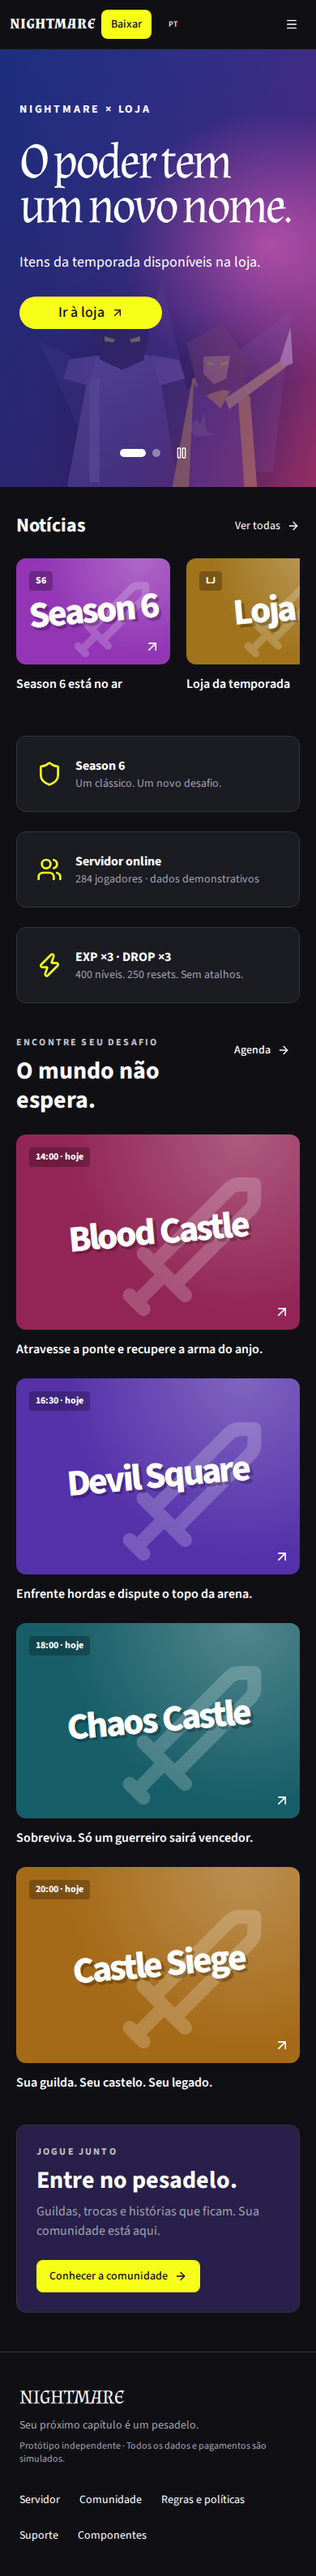
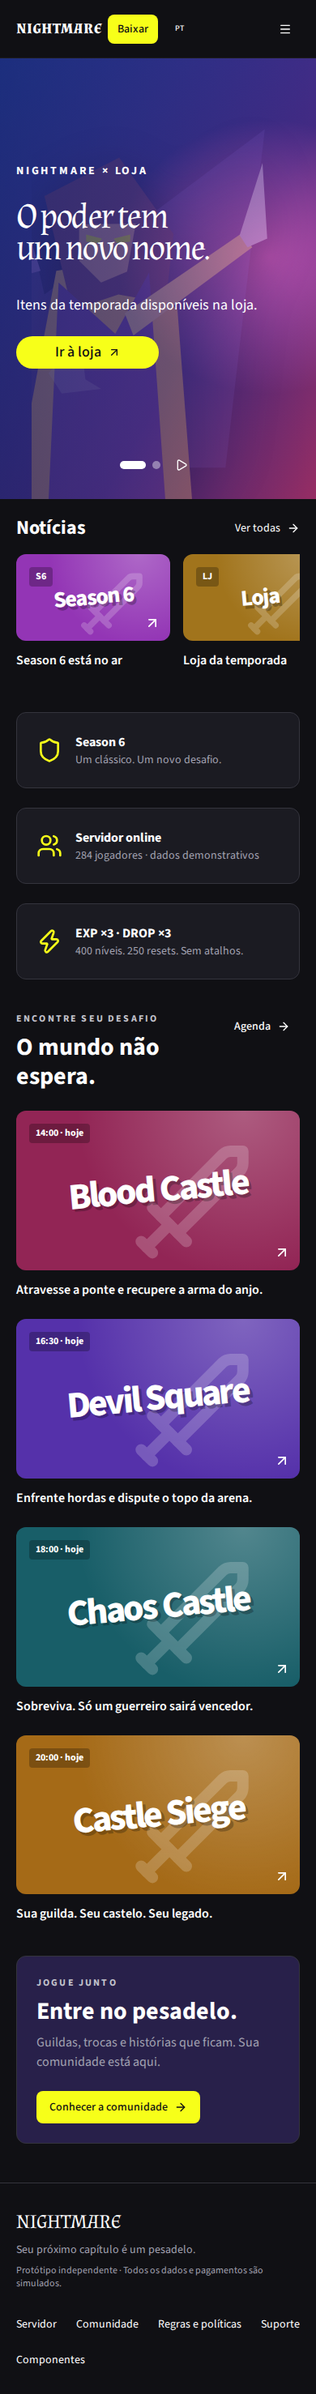
fix: stabilize carousel framing and align shared page gutters

diff --git a/src/index.css b/src/index.css
@@ -29,6 +29,23 @@
   --card: #1b1b22;
   --primary: #f7ff19;
   --space-section: 4rem;
+  --layout-gutter: clamp(20px, 3.2vw, 64px);
+  --header-height: 72px;
+  --news-columns: 6;
+  --news-card-gap: 16px;
+  --news-heading-space: 68px; /* section inset + heading + gap */
+  --news-caption-space: 48px; /* label gap + line + rail padding */
+  --news-card-width: max(
+    190px,
+    calc(
+      (100vw - 2 * var(--layout-gutter) - 5 * var(--news-card-gap)) /
+        var(--news-columns)
+    )
+  );
+  --news-row-space: calc(
+    var(--news-card-width) * 9 / 16 + var(--news-heading-space) +
+      var(--news-caption-space)
+  );
 }
 * {
   box-sizing: border-box;
@@ -57,9 +74,9 @@ a {
   font-family: Almendra, serif;
 }
 .page {
-  max-width: 1440px;
+  width: 100%;
   margin: auto;
-  padding: 48px 48px 64px;
+  padding: 48px var(--layout-gutter) 64px;
 }
 .section {
   margin-top: var(--space-section);
@@ -108,7 +125,12 @@ a {
 }
 .hero {
   position: relative;
-  min-height: 560px;
+  height: clamp(
+    400px,
+    calc(100svh - var(--header-height) - var(--news-row-space)),
+    760px
+  );
+  isolation: isolate;
   overflow: hidden;
   background:
     radial-gradient(ellipse at 85% 45%, #b650ad 0, transparent 40%),
@@ -124,12 +146,19 @@ a {
 .hero-content {
   position: relative;
   z-index: 2;
-  padding: 100px 8%;
-  max-width: 750px;
+  height: 100%;
+  width: 100%;
+  padding: 40px var(--layout-gutter) 72px;
+  display: flex;
+  flex-direction: column;
+  justify-content: center;
+  align-items: flex-start;
 }
 .hero-title {
   font-family: Almendra, serif;
-  font-size: clamp(62px, 8vw, 118px);
+  width: min(50%, 680px);
+  height: 2.05em;
+  font-size: clamp(52px, 5.8vw, 108px);
   line-height: 0.88;
   letter-spacing: -0.06em;
 }
@@ -139,6 +168,7 @@ a {
   bottom: 0;
   width: 55%;
   height: 100%;
+  overflow: hidden;
   opacity: 0.95;
 }
 .hero-art svg {
@@ -148,7 +178,7 @@ a {
 }
 .poster {
   position: relative;
-  aspect-ratio: 1.45;
+  aspect-ratio: 16 / 9;
   border-radius: 12px;
   overflow: hidden;
   background:
@@ -176,9 +206,10 @@ a {
 }
 .news-rail {
   display: grid;
-  grid-template-columns: repeat(6, minmax(190px, 1fr));
-  gap: 20px;
+  grid-template-columns: repeat(var(--news-columns), minmax(190px, 1fr));
+  gap: var(--news-card-gap);
   overflow: auto;
+  scroll-snap-type: x proximity;
   padding-bottom: 12px;
 }
 .product-art {
@@ -197,7 +228,8 @@ a {
   display: flex;
   gap: 24px;
   align-items: center;
-  padding: 16px 24px;
+  height: var(--header-height);
+  padding: 12px var(--layout-gutter);
   background: #101014;
   position: sticky;
   top: 0;
@@ -245,20 +277,20 @@ a {
 }
 @media (max-width: 640px) {
   .page {
-    padding: 32px 20px 48px;
+    padding: 32px var(--layout-gutter) 48px;
   }
   .site-header {
-    padding: 12px 16px;
-    gap: 12px;
+    padding: 12px var(--layout-gutter);
+    gap: 8px;
   }
   .header-search {
     display: none;
   }
   .hero {
-    min-height: 540px;
+    height: clamp(400px, calc(100svh - 300px), 560px);
   }
   .hero-content {
-    padding: 64px 24px;
+    padding: 32px var(--layout-gutter) 64px;
   }
   .hero-art {
     width: 90%;
@@ -280,7 +312,7 @@ a {
 }
 @media (max-width: 400px) {
   .site-header {
-    padding: 12px;
+    padding: 12px var(--layout-gutter);
     gap: 8px;
   }
   .site-header > a > svg {
@@ -291,5 +323,36 @@ a {
   }
   .site-header button[aria-label="Idioma / Language"] svg {
     display: none;
+  }
+}
+
+.home-content {
+  padding-top: 20px;
+}
+.news-rail > a {
+  scroll-snap-align: start;
+  min-width: 0;
+}
+.news-rail .poster h3 {
+  font-size: clamp(28px, 3vw, 42px);
+}
+.site-footer {
+  padding: 40px var(--layout-gutter);
+}
+@media (max-width: 1200px) {
+  .hero-title {
+    width: min(65%, 680px);
+  }
+}
+@media (max-width: 640px) {
+  .hero-title {
+    width: 100%;
+    font-size: clamp(44px, 9vw, 58px);
+  }
+  .home-content {
+    padding-top: 20px;
+  }
+  .site-footer {
+    padding: 32px var(--layout-gutter);
   }
 }

diff --git a/src/features/catalog/TokenCatalog.tsx b/src/features/catalog/TokenCatalog.tsx
@@ -54,7 +54,7 @@ export function TokenCatalog() {
           <Translated text="Interface, conteúdo e números" />
         </p>
         <p className="muted mt-6">
-          <Translated text="Raio: 8 / 12 px. Cards: gap 24 px. Seções: 64 px, 40 px no mobile. Página: 48 px, 20 px no mobile." />
+          <Translated text="Raio: 8 / 12 px. Cards: gap 24 px; notícias: 16 px. Seções: 64 px, 40 px no mobile. Margem lateral compartilhada: 20 a 64 px." />
         </p>
       </div>
     </div>

diff --git a/src/components/layout/Layout.tsx b/src/components/layout/Layout.tsx
@@ -15,8 +15,8 @@ export function Layout() {
       <main>
         <Outlet />
       </main>
-      <footer className="border-t border-border px-6 py-10">
-        <div className="mx-auto flex max-w-7xl flex-wrap justify-between gap-8">
+      <footer className="site-footer border-t border-border">
+        <div className="flex flex-wrap justify-between gap-8">
           <div>
             <Link to="/" className="brand-font text-2xl">
               <Translated text="NIGHTMARE" />

diff --git a/src/pages/HomePage.tsx b/src/pages/HomePage.tsx
@@ -9,9 +9,9 @@ export function HomePage() {
   return (
     <>
       <Hero />
-      <div className="page">
+      <div className="page home-content">
         <section>
-          <div className="mb-6 flex justify-between">
+          <div className="mb-4 flex justify-between">
             <h2 className="text-2xl font-bold">
               <Translated text="Notícias" />
             </h2>

diff --git a/src/components/home/Hero.tsx b/src/components/home/Hero.tsx
@@ -69,7 +69,7 @@ export function Hero() {
         <h1 className="hero-title">
           <Translated text={slide.title} />
         </h1>
-        <p className="my-7 max-w-sm text-lg">
+        <p className="hero-description my-6 max-w-sm text-lg">
           <Translated text={slide.description} />
         </p>
         <Button asChild size="lg" className="min-w-44 rounded-full text-lg">

diff --git a/src/components/home/HeroArt.tsx b/src/components/home/HeroArt.tsx
@@ -1,7 +1,7 @@
 export function HeroArt() {
   return (
     <div className="hero-art" aria-hidden="true">
-      <svg viewBox="0 0 760 560" preserveAspectRatio="xMaxYMax meet">
+      <svg viewBox="0 0 760 560" preserveAspectRatio="xMaxYMin slice">
         <defs>
           <linearGradient id="armor" x2="1" y2="1">
             <stop stopColor="#c3a0ff" />

diff --git a/docs/validation.md b/docs/validation.md
@@ -16,3 +16,9 @@ Carrossel, pausa, catálogo/dialog, navegação mobile, ausência de overflow em
 Todas as 17 rotas públicas foram renderizadas sem erros de JavaScript. Domínio testa também saldo insuficiente, crédito único, requisitos PIX, exclusividade da reserva, expiração, estorno, liquidação de oferta, cestas de joias e renovação de VIP.
 
 Evidências visuais: `home-desktop.png`, `home-mobile.png`, `marketplace-desktop.png`.
+
+## Ajuste de enquadramento — 05/10/2026
+
+Carrossel com altura independente do conteúdo e recorte de arte ancorado no topo. Hero, header, notícias e rodapé usam a mesma margem lateral. Cards de notícias com proporção 16:9 e gap de 16 px. A altura desktop reserva a área da primeira fileira conforme a largura dos cards.
+
+Em 1910 × 915 px, os dois slides mantêm exatamente a mesma geometria e a fileira termina dentro do viewport. Margens alinhadas verificadas em 320, 390, 768, 1280 e 1440 px. Build, lint e os cinco testes de navegador aprovados. Captura da primeira tela em `home-first-viewport.png`.

diff --git a/README.md b/README.md
@@ -31,7 +31,7 @@ npm test
 - `store`: contexto que liga UI, regras e persistência.
 - `data`: mocks, produtos, eventos e notícias.
 
-Catálogo interativo: `/components`. Tokens no `src/index.css`: base de 4 px, gaps de 24 px, seções de 64 px (40 no mobile), margens de 48 px (20 no mobile).
+Catálogo interativo: `/components`. Tokens no `src/index.css`: base de 4 px, gaps de 24 px, seções de 64 px (40 no mobile), margem lateral compartilhada `--layout-gutter`, de 20 a 64 px conforme a largura da tela.
 
 ## Referências
 
